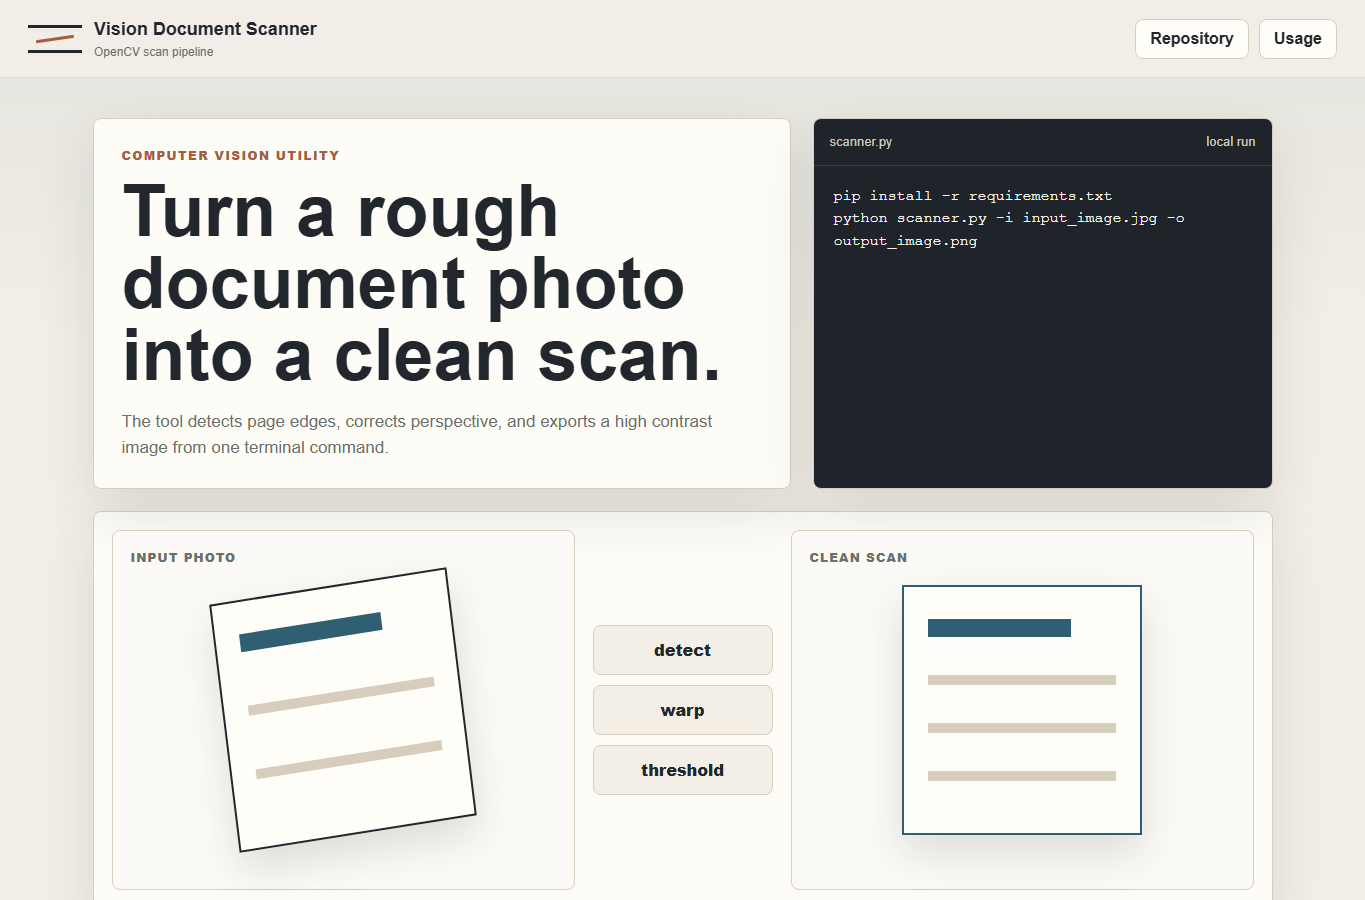
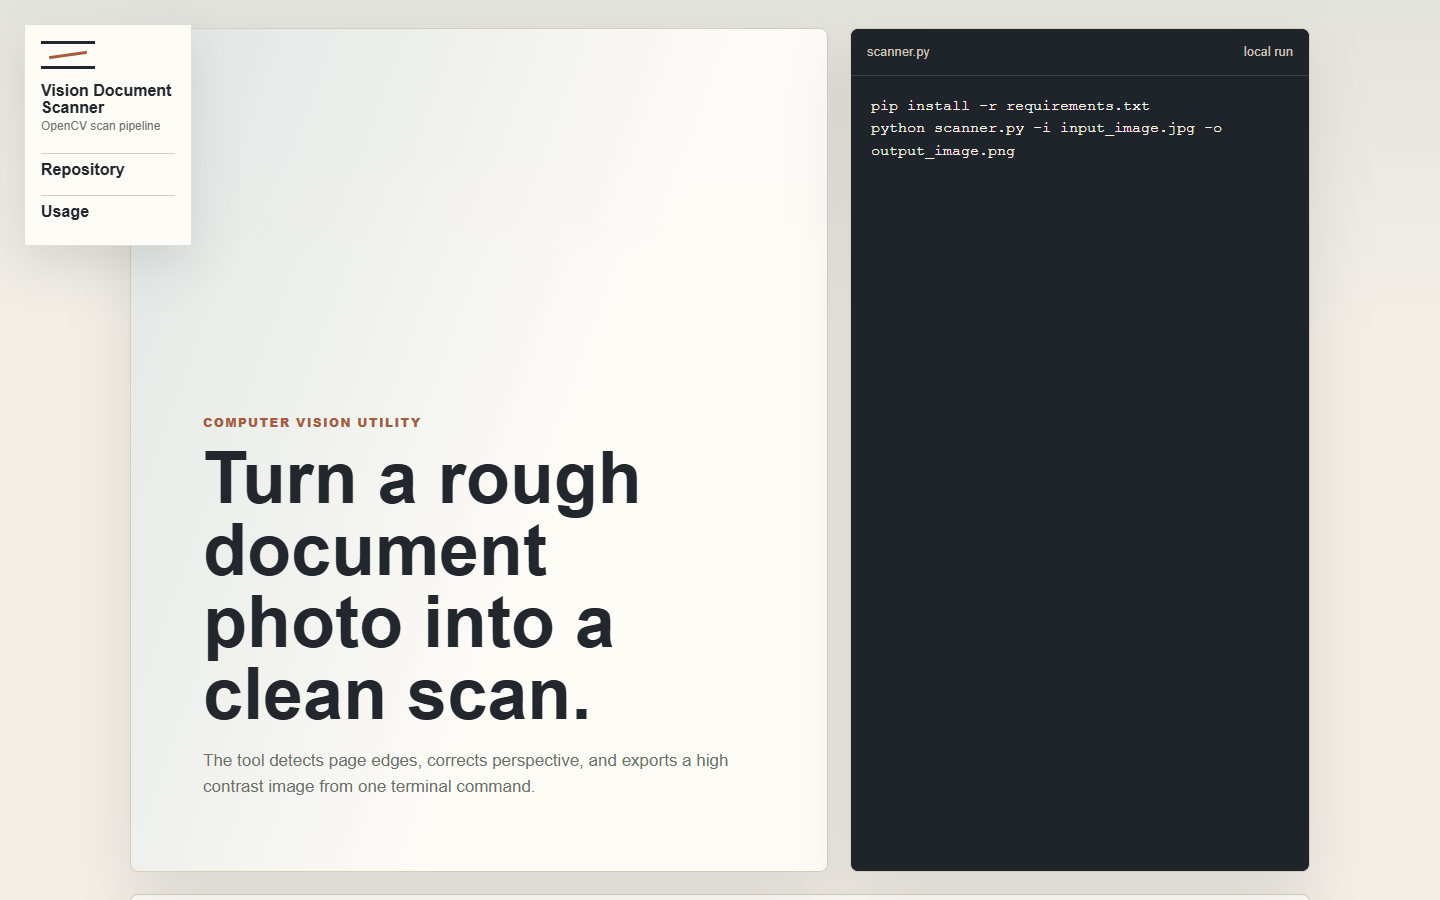
design: replace generic header with scanner rail

diff --git a/site/styles.css b/site/styles.css
@@ -33,24 +33,22 @@ a {
 }
 
 .topbar {
-  position: sticky;
-  top: 0;
+  position: fixed;
+  left: 24px;
+  top: 24px;
   z-index: 5;
-  display: flex;
-  align-items: center;
-  justify-content: space-between;
+  display: grid;
   gap: 18px;
-  min-height: 74px;
-  padding: 16px 28px;
-  border-bottom: 1px solid rgba(34, 39, 45, 0.1);
-  background: rgba(243, 239, 231, 0.92);
-  backdrop-filter: blur(14px);
+  width: 168px;
+  padding: 16px;
+  border: 1px solid rgba(34, 39, 45, 0.14);
+  background: rgba(255, 253, 248, 0.94);
+  box-shadow: 0 18px 45px rgba(34, 39, 45, 0.12);
 }
 
 .brand {
-  display: flex;
-  align-items: center;
-  gap: 12px;
+  display: grid;
+  gap: 14px;
   text-decoration: none;
 }
 
@@ -79,7 +77,8 @@ a {
 }
 
 .brand strong {
-  font-size: 18px;
+  font-size: 16px;
+  line-height: 1.05;
 }
 
 .brand small {
@@ -88,19 +87,20 @@ a {
 }
 
 .nav {
-  display: flex;
-  gap: 10px;
+  display: grid;
+  gap: 8px;
 }
 
 .nav a {
-  display: inline-flex;
-  min-height: 40px;
+  display: flex;
+  min-height: 34px;
   align-items: center;
-  justify-content: center;
-  padding: 0 14px;
-  border: 1px solid var(--line);
-  border-radius: var(--radius);
-  background: var(--surface);
+  justify-content: flex-start;
+  padding: 0;
+  border: 0;
+  border-top: 1px solid var(--line);
+  border-radius: 0;
+  background: transparent;
   font-weight: 700;
   text-decoration: none;
 }
@@ -108,7 +108,7 @@ a {
 .shell {
   width: min(1180px, calc(100% - 36px));
   margin: 0 auto;
-  padding: 40px 0 70px;
+  padding: 28px 0 70px;
 }
 
 .hero {
@@ -116,6 +116,7 @@ a {
   grid-template-columns: minmax(0, 1fr) minmax(320px, 460px);
   gap: 22px;
   align-items: stretch;
+  min-height: calc(100vh - 56px);
   margin-bottom: 22px;
 }
 
@@ -130,7 +131,12 @@ a {
 }
 
 .hero > div:first-child {
-  padding: 28px;
+  display: grid;
+  align-content: end;
+  padding: clamp(28px, 6vw, 72px);
+  background:
+    linear-gradient(110deg, rgba(48, 94, 114, 0.14), transparent 62%),
+    rgba(255, 253, 248, 0.92);
 }
 
 .eyebrow {
@@ -291,8 +297,9 @@ code {
 
 @media (max-width: 620px) {
   .topbar {
-    align-items: flex-start;
-    flex-direction: column;
+    position: static;
+    width: auto;
+    margin: 12px;
     padding: 16px;
   }
 